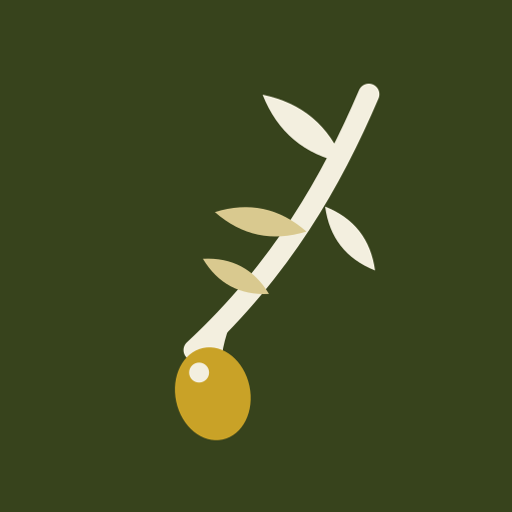
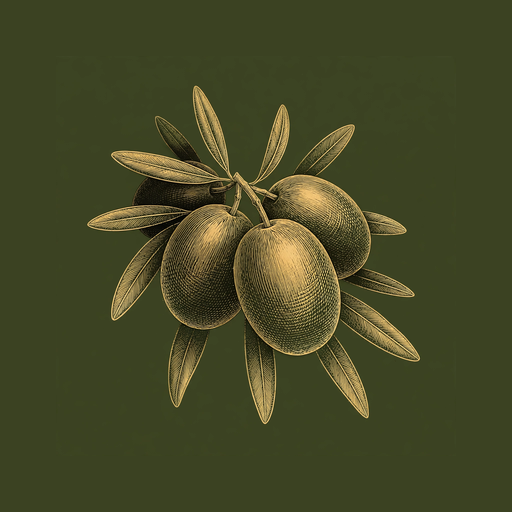
Brand mark swap: 7D-4 engraved olive cluster (Stanley's final pick)
- Large surfaces (apple-touch, icon-192/512, maskable, OG) now carry the
  full 7D-4 engraved cluster master art
- Small surfaces (favicon.svg/ico/png, header/footer inline SVG) use a
  simplified cluster glyph derived from the same composition
- OG image rebuilt in the existing layout with the new mark

Changed region(s): [[0.1562, 0.1562, 0.8438, 0.875]]

diff --git a/src/app/layout.tsx b/src/app/layout.tsx
@@ -126,16 +126,21 @@ export default async function RootLayout({ children }: { children: React.ReactNo
           <div className="max-w-6xl mx-auto px-5 md:px-6 h-16 flex items-center justify-between">
             {/* Logo */}
             <Link href="/" className="flex items-center gap-3 group">
-              {/* SVG olive branch mark — same mark as favicon.svg / app icons */}
+              {/* SVG olive cluster mark — simplified glyph of the 7D-4 engraved cluster, same mark as favicon.svg / app icons */}
               <svg width="30" height="30" viewBox="0 0 64 64" fill="none" className="flex-shrink-0" aria-hidden="true">
-                <path d="M50 6 C44 20 36 34 22 47" stroke="#4a5824" strokeWidth="3.4" strokeLinecap="round" fill="none" />
-                <path d="M0 0 Q 8.5 -4.6 17 0 Q 8.5 4.6 0 0 Z" transform="translate(46 17) rotate(-140)" fill="#4a5824" />
-                <path d="M0 0 Q 7.5 -4.2 15 0 Q 7.5 4.2 0 0 Z" transform="translate(40 28) rotate(-168)" fill="#7a8f3a" />
-                <path d="M0 0 Q 6.5 -3.8 13 0 Q 6.5 3.8 0 0 Z" transform="translate(43 24) rotate(52)" fill="#4a5824" />
-                <path d="M0 0 Q 6 -3.6 12 0 Q 6 3.6 0 0 Z" transform="translate(34 38) rotate(-152)" fill="#7a8f3a" />
-                <path d="M26.5 42.5 C25.8 44.5 25.4 46 25.2 47.5" stroke="#4a5824" strokeWidth="2.6" strokeLinecap="round" fill="none" />
-                <ellipse cx="25" cy="54" rx="6" ry="7.5" transform="rotate(-12 25 54)" fill="#4a5824" />
-                <circle cx="22.8" cy="50.6" r="1.6" fill="#c9a227" />
+                <path d="M0 0 C 20.7 -30.0, 19.0 -72.0, 0 -100 C -19.0 -72.0, -20.7 -30.0, 0 0 Z" transform="translate(31 19) rotate(-2) scale(0.170)" fill="#4A5824" />
+                <path d="M0 0 C 20.7 -30.0, 19.0 -72.0, 0 -100 C -19.0 -72.0, -20.7 -30.0, 0 0 Z" transform="translate(30 20) rotate(-50) scale(0.180)" fill="#7A8F3A" />
+                <path d="M0 0 C 20.7 -30.0, 19.0 -72.0, 0 -100 C -19.0 -72.0, -20.7 -30.0, 0 0 Z" transform="translate(28 22) rotate(-95) scale(0.220)" fill="#4A5824" />
+                <path d="M0 0 C 20.7 -30.0, 19.0 -72.0, 0 -100 C -19.0 -72.0, -20.7 -30.0, 0 0 Z" transform="translate(27 27) rotate(-138) scale(0.200)" fill="#7A8F3A" />
+                <path d="M0 0 C 20.7 -30.0, 19.0 -72.0, 0 -100 C -19.0 -72.0, -20.7 -30.0, 0 0 Z" transform="translate(33 19) rotate(44) scale(0.180)" fill="#7A8F3A" />
+                <path d="M0 0 C 20.7 -30.0, 19.0 -72.0, 0 -100 C -19.0 -72.0, -20.7 -30.0, 0 0 Z" transform="translate(37 26) rotate(92) scale(0.190)" fill="#4A5824" />
+                <path d="M0 0 C 20.7 -30.0, 19.0 -72.0, 0 -100 C -19.0 -72.0, -20.7 -30.0, 0 0 Z" transform="translate(36 34) rotate(140) scale(0.180)" fill="#4A5824" />
+                <path d="M0 0 C 20.7 -30.0, 19.0 -72.0, 0 -100 C -19.0 -72.0, -20.7 -30.0, 0 0 Z" transform="translate(28 38) rotate(-165) scale(0.160)" fill="#7A8F3A" />
+                <ellipse cx="19.5" cy="23" rx="6.8" ry="5.8" transform="rotate(10 19.5 23)" fill="#7A8F3A" />
+                <ellipse cx="41.5" cy="26.5" rx="8.6" ry="6.6" transform="rotate(26 41.5 26.5)" fill="#4A5824" />
+                <ellipse cx="24" cy="34" rx="8.0" ry="9.6" transform="rotate(-15 24 34)" fill="#4A5824" />
+                <ellipse cx="37" cy="38" rx="8.6" ry="10.2" transform="rotate(-11 37 38)" fill="#4A5824" />
+                <circle cx="33.4" cy="32.5" r="1.7" fill="#C9A227" />
               </svg>
               <div className="flex flex-col leading-none gap-0.5">
                 <span className="text-sm font-bold text-olive-900 group-hover:text-olive-700 transition-colors tracking-tight">
@@ -207,16 +212,21 @@ export default async function RootLayout({ children }: { children: React.ReactNo
             {/* Brand */}
             <div className="md:col-span-1">
               <div className="flex items-center gap-2 mb-3">
-                {/* SVG olive branch mark — same mark as the header logo and favicon.svg */}
+                {/* SVG olive cluster mark — same mark as the header logo and favicon.svg */}
                 <svg width="28" height="28" viewBox="0 0 64 64" fill="none" className="flex-shrink-0" aria-hidden="true">
-                  <path d="M50 6 C44 20 36 34 22 47" stroke="#f3efdf" strokeWidth="3.4" strokeLinecap="round" fill="none" />
-                  <path d="M0 0 Q 8.5 -4.6 17 0 Q 8.5 4.6 0 0 Z" transform="translate(46 17) rotate(-140)" fill="#f3efdf" />
-                  <path d="M0 0 Q 7.5 -4.2 15 0 Q 7.5 4.2 0 0 Z" transform="translate(40 28) rotate(-168)" fill="#d9c98f" />
-                  <path d="M0 0 Q 6.5 -3.8 13 0 Q 6.5 3.8 0 0 Z" transform="translate(43 24) rotate(52)" fill="#f3efdf" />
-                  <path d="M0 0 Q 6 -3.6 12 0 Q 6 3.6 0 0 Z" transform="translate(34 38) rotate(-152)" fill="#d9c98f" />
-                  <path d="M26.5 42.5 C25.8 44.5 25.4 46 25.2 47.5" stroke="#f3efdf" strokeWidth="2.6" strokeLinecap="round" fill="none" />
-                  <ellipse cx="25" cy="54" rx="6" ry="7.5" transform="rotate(-12 25 54)" fill="#c9a227" />
-                  <circle cx="22.8" cy="50.6" r="1.6" fill="#f3efdf" />
+                  <path d="M0 0 C 20.7 -30.0, 19.0 -72.0, 0 -100 C -19.0 -72.0, -20.7 -30.0, 0 0 Z" transform="translate(31 19) rotate(-2) scale(0.170)" fill="#F3EFDF" />
+                  <path d="M0 0 C 20.7 -30.0, 19.0 -72.0, 0 -100 C -19.0 -72.0, -20.7 -30.0, 0 0 Z" transform="translate(30 20) rotate(-50) scale(0.180)" fill="#D9C98F" />
+                  <path d="M0 0 C 20.7 -30.0, 19.0 -72.0, 0 -100 C -19.0 -72.0, -20.7 -30.0, 0 0 Z" transform="translate(28 22) rotate(-95) scale(0.220)" fill="#F3EFDF" />
+                  <path d="M0 0 C 20.7 -30.0, 19.0 -72.0, 0 -100 C -19.0 -72.0, -20.7 -30.0, 0 0 Z" transform="translate(27 27) rotate(-138) scale(0.200)" fill="#D9C98F" />
+                  <path d="M0 0 C 20.7 -30.0, 19.0 -72.0, 0 -100 C -19.0 -72.0, -20.7 -30.0, 0 0 Z" transform="translate(33 19) rotate(44) scale(0.180)" fill="#D9C98F" />
+                  <path d="M0 0 C 20.7 -30.0, 19.0 -72.0, 0 -100 C -19.0 -72.0, -20.7 -30.0, 0 0 Z" transform="translate(37 26) rotate(92) scale(0.190)" fill="#F3EFDF" />
+                  <path d="M0 0 C 20.7 -30.0, 19.0 -72.0, 0 -100 C -19.0 -72.0, -20.7 -30.0, 0 0 Z" transform="translate(36 34) rotate(140) scale(0.180)" fill="#F3EFDF" />
+                  <path d="M0 0 C 20.7 -30.0, 19.0 -72.0, 0 -100 C -19.0 -72.0, -20.7 -30.0, 0 0 Z" transform="translate(28 38) rotate(-165) scale(0.160)" fill="#D9C98F" />
+                  <ellipse cx="19.5" cy="23" rx="6.8" ry="5.8" transform="rotate(10 19.5 23)" fill="#D9C98F" />
+                  <ellipse cx="41.5" cy="26.5" rx="8.6" ry="6.6" transform="rotate(26 41.5 26.5)" fill="#C9A227" />
+                  <ellipse cx="24" cy="34" rx="8.0" ry="9.6" transform="rotate(-15 24 34)" fill="#C9A227" />
+                  <ellipse cx="37" cy="38" rx="8.6" ry="10.2" transform="rotate(-11 37 38)" fill="#C9A227" />
+                  <circle cx="33.4" cy="32.5" r="1.7" fill="#F3EFDF" />
                 </svg>
                 <div>
                   <p className="font-bold text-white text-sm">知橄生活</p>
